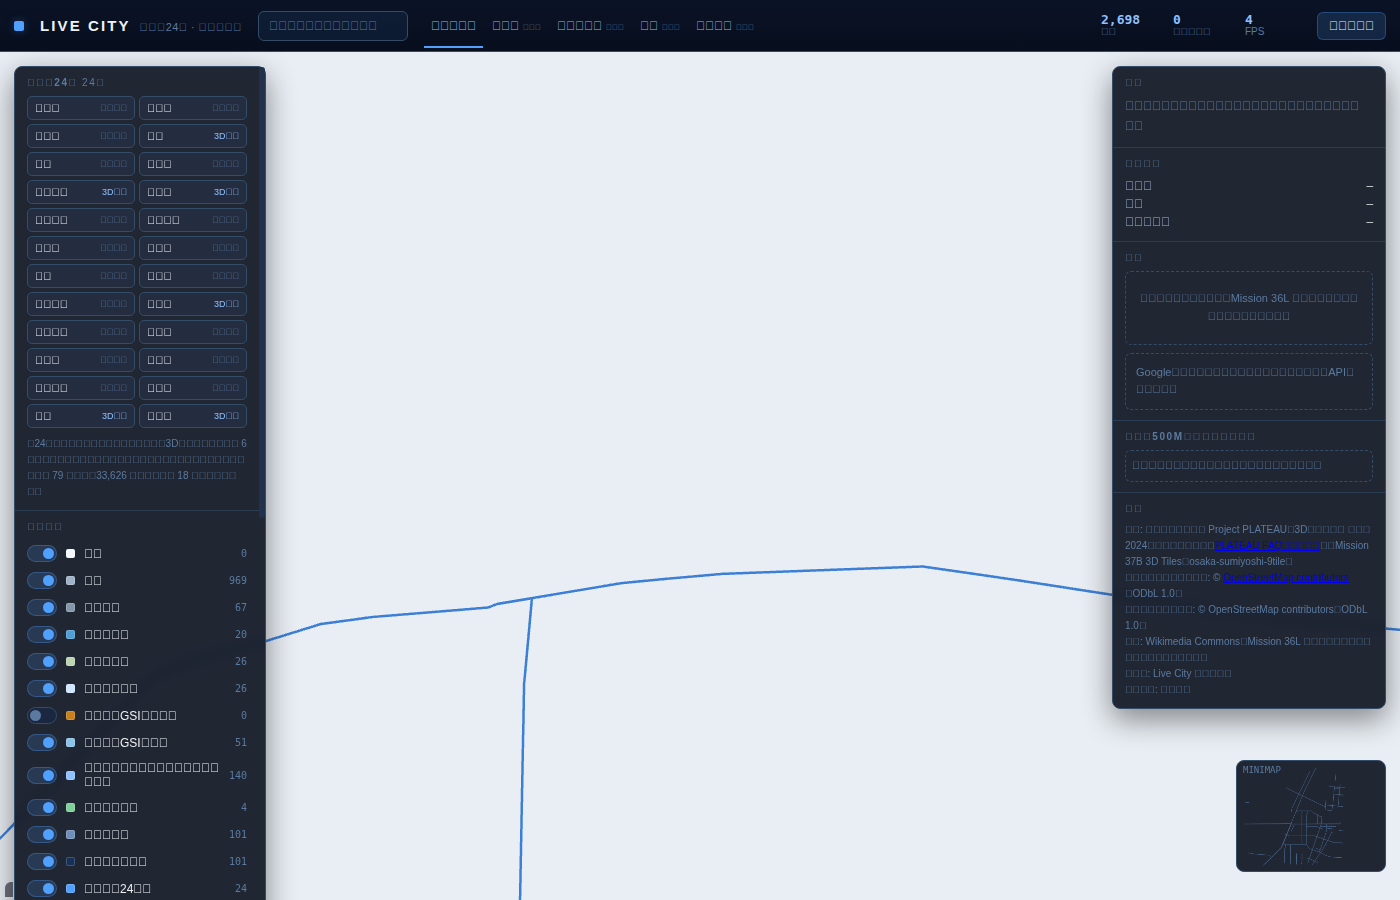
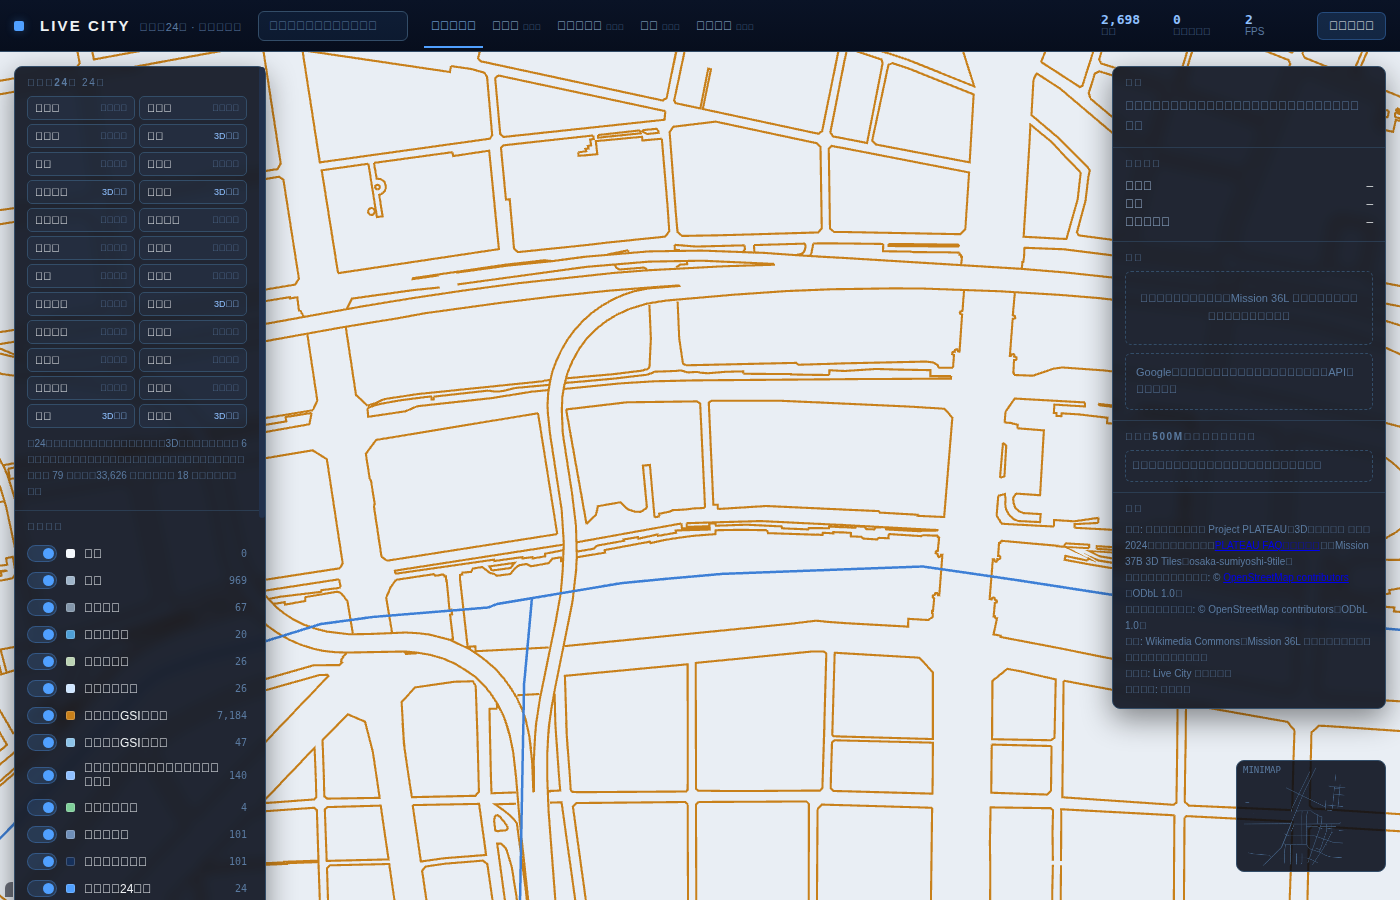
Mission 52: GSI road edge default ON (as old 31G), dedupe fully-covered GSI water seam polygons, QA isolating edge overlay, tests

diff --git a/public/mission52-water-dedupe.js b/public/mission52-water-dedupe.js
@@ -1,0 +1,64 @@
+// Mission 52: GSI 水域面がタイル境界で分割・重複する問題の整理（ブラウザ / Node 共用の純粋ロジック）。
+// 他の（残す）ポリゴンで「完全に覆われている」ポリゴンだけを落とす。座標は一切変更しない・新しい形も作らない。
+// 判定: 面積の大きい順に残す → 候補の頂点と内部格子点（step m）がすべて既に残したポリゴン内（穴を除く）なら冗長。
+//   サンプリング判定なので step 未満の細片は見逃し得る（その場合も落とすのは step 四方以下の面積のみ）。
+(function (root, factory) {
+  if (typeof module === 'object' && module.exports) module.exports = factory();
+  else root.LiveCityWaterDedupe = factory();
+})(typeof self !== 'undefined' ? self : this, function () {
+  'use strict';
+  const inRing = (x, z, r) => {
+    let c = false;
+    for (let i = 0, j = r.length - 1; i < r.length; j = i++) {
+      const a = r[i], b = r[j];
+      if ((a[1] > z) !== (b[1] > z) && x < ((b[0] - a[0]) * (z - a[1])) / (b[1] - a[1]) + a[0]) c = !c;
+    }
+    return c;
+  };
+  const inPoly = (x, z, p) => inRing(x, z, p.outer) && !(p.holes || []).some((h) => inRing(x, z, h));
+  const bbox = (p) => {
+    let a = 1e18, b = -1e18, c = 1e18, d = -1e18;
+    for (const q of p.outer) { if (q[0] < a) a = q[0]; if (q[0] > b) b = q[0]; if (q[1] < c) c = q[1]; if (q[1] > d) d = q[1]; }
+    return [a, b, c, d];
+  };
+  const ringArea = (r) => { let s = 0; for (let i = 0, j = r.length - 1; i < r.length; j = i++) s += r[j][0] * r[i][1] - r[i][0] * r[j][1]; return Math.abs(s) / 2; };
+  const netArea = (p) => ringArea(p.outer) - (p.holes || []).reduce((t, h) => t + ringArea(h), 0);
+
+  function dedupeWater(polys, opts) {
+    const step = (opts && opts.step) || 2;
+    const items = polys.map((p, i) => ({ p, i, bb: bbox(p), a: netArea(p) })).sort((x, y) => y.a - x.a);
+    const kept = [], dropped = [];
+    for (const it of items) {
+      const [x0, x1, z0, z1] = it.bb;
+      const others = kept.filter((k) => !(k.bb[1] < x0 || k.bb[0] > x1 || k.bb[3] < z0 || k.bb[2] > z1));
+      let covered = others.length > 0, inside = 0;
+      if (covered) {
+        const covers = (x, z) => others.some((k) => inPoly(x, z, k.p));
+        // 頂点は覆う側の境界と重なることが多いので、重心方向へ 0.5m 寄せた点で判定する（候補の内側に残る場合のみ）
+        let cx = 0, cz = 0;
+        for (const q of it.p.outer) { cx += q[0]; cz += q[1]; }
+        cx /= it.p.outer.length; cz /= it.p.outer.length;
+        for (const q of it.p.outer) {
+          const L = Math.hypot(cx - q[0], cz - q[1]) || 1, k = Math.min(0.5, L * 0.5) / L;
+          const px = q[0] + (cx - q[0]) * k, pz = q[1] + (cz - q[1]) * k;
+          if (inPoly(px, pz, it.p) && !covers(px, pz)) { covered = false; break; }
+        }
+        for (let x = x0 + step / 2; covered && x < x1; x += step) {
+          for (let z = z0 + step / 2; z < z1; z += step) {
+            if (!inPoly(x, z, it.p)) continue;
+            inside++;
+            if (!covers(x, z)) { covered = false; break; }
+          }
+        }
+      }
+      (covered ? dropped : kept).push(it);
+    }
+    kept.sort((x, y) => x.i - y.i);
+    return {
+      polys: kept.map((k) => k.p),
+      droppedIndexes: dropped.map((d) => d.i).sort((a, b) => a - b),
+      droppedAreaM2: Math.round(dropped.reduce((t, d) => t + d.a, 0)),
+    };
+  }
+  return { dedupeWater, inPoly, netArea };
+});

diff --git a/public/mission37g-osaka-24ward-mvp.html b/public/mission37g-osaka-24ward-mvp.html
@@ -450,6 +450,7 @@
 <script src="mission37f-photo-select.js"></script>
 <script src="mission37k-poi-select.js"></script>
 <script src="mission51-seg-dedupe.js"></script>
+<script src="mission52-water-dedupe.js"></script>
 <script src="mission38f-facility-fastload.js"></script>
 <script src="mission45f-streaming.js"></script>
 <script src="mission45g-perf.js"></script>
@@ -1874,8 +1875,8 @@
       return loading;
     }
     LayerRegistry.register({
-      id: 'gsiroadedge', label: '道路縁（GSI・参考）', swatch: '#c8801a', defaultOn: false,
-      hint: '国土地理院の実測道路縁（RdEdg）。住吉区9tile範囲と北区サンプル範囲のみ。OSM中心線・建物輪郭とは定義が異なる参考表示',
+      id: 'gsiroadedge', label: '道路縁（GSI実測）', swatch: '#c8801a', defaultOn: true,
+      hint: '国土地理院の実測道路縁（RdEdg）＝旧版31Gで道路境界の正本としていたもの。住吉区9tile・北区サンプル・大川/中之島の窓のみ（窓の外は描かない）。OSM中心線は別レイヤーとして残す。路幅は推測しない',
       async mount() { return { count: 0 }; },
       applyVisible(on) {
         shown = !!on; if (coll) { coll.show = shown; scene.requestRender(); return; }
@@ -1898,7 +1899,9 @@
         if (!r.ok) throw new Error('GSI water HTTP ' + r.status);
         const d = await r.json();
         if (d.kind !== 'gsi-water-roadedge' || !Array.isArray(d.water)) throw new Error('GSI water: unexpected format');
-        const inst = d.water.filter((w) => w.outer && w.outer.length >= 3).map((w) => new Cesium.GeometryInstance({
+        const wd = LiveCityWaterDedupe.dedupeWater(d.water.filter((w) => w.outer && w.outer.length >= 3)); // 52: タイル境界で他ポリゴンに完全に覆われる重複片だけ除く（座標不変）
+        stats.gsiWater.dedupe = { inPolys: d.water.length, dropped: wd.droppedIndexes.length, droppedAreaM2: wd.droppedAreaM2 };
+        const inst = wd.polys.map((w) => new Cesium.GeometryInstance({
           geometry: new Cesium.PolygonGeometry({
             polygonHierarchy: new Cesium.PolygonHierarchy(w.outer.map((pt) => toCart(pt[0], pt[1], 0)),
               (w.holes || []).map((h) => new Cesium.PolygonHierarchy(h.map((pt) => toCart(pt[0], pt[1], 0))))),

diff --git a/MISSION52_README.md b/MISSION52_README.md
@@ -1,0 +1,24 @@
+# Mission 52: GSI road edge restored as default layer; GSI water seam duplicates removed (Okawa / Nakanoshima window)
+
+## Re-check against old reports (31G ALIGNMENT-RESET, FIX13)
+- Old Three.js: GSI RdEdg was the **authoritative road outline and default ON** (31G sec.7-9); FIX13 road-surface polygons were fill only.
+- Current Cesium viewer (before this mission): `gsiroadedge` existed but default **OFF**, so a normal user saw only OSM centrelines with pixel widths, which is the regression vs the old behaviour.
+- Okawa/Nakanoshima defects found in current rendering: (a) no road outline by default; (b) GSI WA polygons are split at tile seams and 4 of 51 are fully covered by neighbouring polygons (drawn twice); a further 4.2 % of covered 2 m cells have 2+ polygons (partial overlap, alpha 0.95, left as is).
+
+## Changes (`public/mission37g-osaka-24ward-mvp.html`)
+1. `gsiroadedge` is now **default ON** (window-limited: Sumiyoshi 9-tile, Kita sample, Okawa/Nakanoshima; nothing is drawn outside). OSM centreline layer is kept as a separate layer; no road width is estimated.
+2. `public/mission52-water-dedupe.js`: drops only water polygons fully covered by larger kept polygons (same objects, no new geometry, no coordinate change). Real data: 51 -> 47 polygons, 193 m2 removed. Diagnostics: `__mission37g.gsiWater.dedupe`.
+
+## Measured (headless Chrome, software rendering, no basemap; `tools/experiments/mission50_okawa_qa.mjs`)
+| state | water-interior points drawn as water (142) | land points drawn as water (512) |
+|---|---|---|
+| water OFF | 4 (2.8 %) | 1 (0.2 %) |
+| water ON + road edge ON (new default) | 139 (97.9 %) | 1 (0.2 %) |
+| water ON + road edge OFF | **142 (100 %)** | 1 (0.2 %) |
+Reading: the dedupe loses no water pixel (100 % with road edge off). The 3 points that read non-water with the edge layer ON are covered by orange road-edge lines drawn over the river (bridges), i.e. edge line over water, as expected for RdEdg.
+0 JS errors, 0 Google requests. The only 404s are favicon and the optional `ext-3dtiles/index.json`.
+
+## Not done / blockers
+- Nakanoshima proper has no tracked independent PLATEAU footprint (Mission 51: 3 buildings); not fetched (official ZIP ~1.3 GB, licence unconfirmed). The old "water vs building mismatch" at Nakanoshima remains **unverified**. GSI BldA is not PLATEAU.
+- Road edge only covers the three windows; elsewhere roads are still OSM centreline + pixel width. This is not "ward-wide alignment fixed".
+- Before/after here is pixel-sample based (data -> screen), not human visual QA with a basemap. No 45X/park/ward-select Chrome regression was run in this session beyond the Node tests below.
